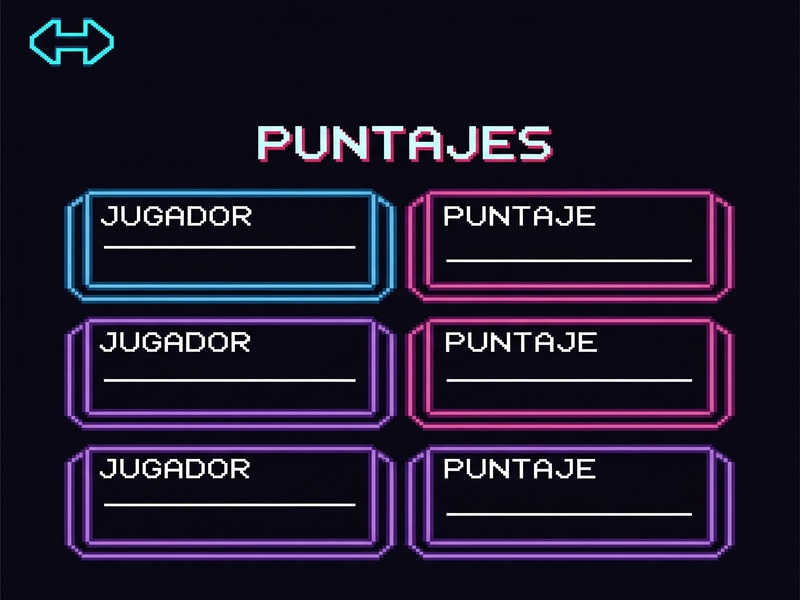
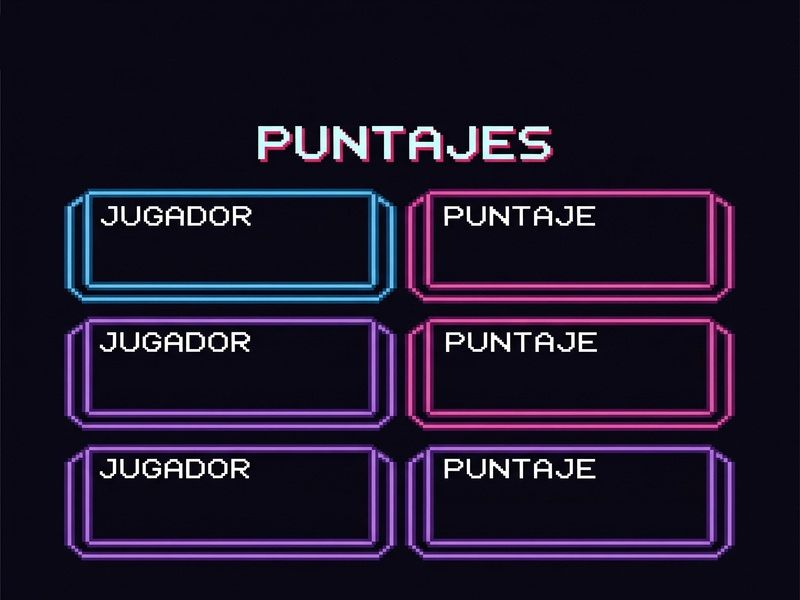
Merge pull request #9 from Runick93/feature/puntaje/almacenamiento-puntaje-archivo
Feature/puntaje/almacenamiento puntaje archivo

Pull request: Feature/puntaje/almacenamiento puntaje archivo
Se finalizo la pantalla puntaje y el guardado de archivos

diff --git a/Funciones_Juego/Funciones_Juegos.py b/Funciones_Juego/Funciones_Juegos.py
@@ -2,10 +2,10 @@ import pygame
 from Funciones.Funciones import *
 
 import pygame.mixer as mixer
+import json
+import os
 
 mixer.init()
-
-
 
 # Pantallas.
 def pantalla_inicio() -> str:
@@ -81,7 +81,7 @@ def pantalla_juego(pantalla, eventos, dict_juego, dict_jugador) -> str:
     fuente_botones = pygame.font.SysFont("consolas", 20)
 
     coordenadas_boton_atras = pygame.Rect(10, 10, 100, 50)
-    pygame.draw.rect(pantalla, 'yellow', coordenadas_boton_atras)
+    pygame.draw.rect(pantalla, (255, 221, 0), coordenadas_boton_atras)
     texto_atras = fuente_botones.render("Atras", True, (0, 0, 0)) 
     rect_texto_atras = texto_atras.get_rect(center=coordenadas_boton_atras.center)
     pantalla.blit(texto_atras, rect_texto_atras)
@@ -147,7 +147,11 @@ def pantalla_juego(pantalla, eventos, dict_juego, dict_jugador) -> str:
                                 sonido_disparo_fallido.play()
                                 dict_jugador["disparos_no_acertados"].append((i,j))
                                 dict_jugador["puntaje"] -= 1
-
+    
+    partida_finalizada = partida_terminada(dict_jugador)
+    if partida_finalizada == True:
+        guardar_puntaje(dict_jugador)
+        retorno = "reiniciar"
     #print(dict_jugador["puntaje"])
     texto_surface = fuente_puntaje.render(f"PUNTAJE: {dict_jugador['puntaje']}", False, (255, 255, 255))
     pantalla.blit(texto_surface, (500, 10))
@@ -155,18 +159,78 @@ def pantalla_juego(pantalla, eventos, dict_juego, dict_jugador) -> str:
 
 
 
-def pantalla_puntaje(pantalla, diccionario_juego:dict, diccionario_jugador:dict):
+def pantalla_puntaje(pantalla, eventos):
     """
     Funcion que permite ver el historico de puntajes en el juego.
     """
+    retorno = "puntaje"
     fondo_imagen = pygame.image.load("Imagenes/pantalla_puntajes.jpg")
     pantalla.blit(fondo_imagen, [0,0])
-    #buscar_barco(diccionario_juego, diccionario_jugador)
+    puntaje_jugador_archivos = obtener_mayor_puntaje()
+
+    fuente_puntaje = pygame.font.SysFont("Consolas", 32)
+
+    fuente_botones = pygame.font.SysFont("consolas", 20)
+
+    coordenadas_boton_atras = pygame.Rect(10, 10, 100, 50)
+    pygame.draw.rect(pantalla, (255, 221, 0), coordenadas_boton_atras)
+    texto_atras = fuente_botones.render("Atras", True, (0, 0, 0)) 
+    rect_texto_atras = texto_atras.get_rect(center=coordenadas_boton_atras.center)
+    pantalla.blit(texto_atras, rect_texto_atras)
+
+    texto_surface_nombre1 = fuente_puntaje.render(f"{puntaje_jugador_archivos[0]["nombre"]}", False, (255, 255, 255))
+    texto_surface_puntaje1 = fuente_puntaje.render(f"{puntaje_jugador_archivos[0]["puntaje"]}", False, (255, 255, 255))
+    pantalla.blit(texto_surface_nombre1, (150, 240))
+    pantalla.blit(texto_surface_puntaje1, (480, 240))
+
+    texto_surface_nombre2 = fuente_puntaje.render(f"{puntaje_jugador_archivos[1]["nombre"]}", False, (255, 255, 255))
+    texto_surface_puntaje2 = fuente_puntaje.render(f"{puntaje_jugador_archivos[1]["puntaje"]}", False, (255, 255, 255))
+    pantalla.blit(texto_surface_nombre2, (150, 365))
+    pantalla.blit(texto_surface_puntaje2, (480, 365))
+
+    texto_surface_nombre3 = fuente_puntaje.render(f"{puntaje_jugador_archivos[2]["nombre"]}", False, (255, 255, 255))
+    texto_surface_puntaje3 = fuente_puntaje.render(f"{puntaje_jugador_archivos[2]["puntaje"]}", False, (255, 255, 255))
+    pantalla.blit(texto_surface_nombre3, (150, 490))
+    pantalla.blit(texto_surface_puntaje3, (480, 490))
+
+    for evento in eventos:
+        if evento.type == pygame.MOUSEBUTTONDOWN:
+            posicion_mouse = pygame.mouse.get_pos()
+            
+            if coordenadas_boton_atras.collidepoint(posicion_mouse):
+                retorno = "inicio"
+
+    return retorno
 
 
+def coordenadas_boton(pantalla, eventos):
+    retorno = ""
+    fuente_botones = pygame.font.SysFont("consolas", 20)
+    coordenadas_boton_atras = pygame.Rect(10, 10, 100, 50)
+    pygame.draw.rect(pantalla, 'yellow', coordenadas_boton_atras)
+    texto_atras = fuente_botones.render("Atras", True, (0, 0, 0)) 
+    rect_texto_atras = texto_atras.get_rect(center=coordenadas_boton_atras.center)
+    pantalla.blit(texto_atras, rect_texto_atras)
+    
+    coordenadas_boton_reiniciar = pygame.Rect(130, 10, 100, 50)
+    pygame.draw.rect(pantalla, 'pink', coordenadas_boton_reiniciar)
+    texto_reiniciar = fuente_botones.render("Reiniciar", True, (0, 0, 0))
+    rect_texto_reiniciar = texto_reiniciar.get_rect(center=coordenadas_boton_reiniciar.center)
+    pantalla.blit(texto_reiniciar, rect_texto_reiniciar)
+
+    for evento in eventos:
+        if evento.type == pygame.MOUSEBUTTONDOWN:
+            posicion_mouse = pygame.mouse.get_pos()
+            
+            if coordenadas_boton_atras.collidepoint(posicion_mouse):
+                retorno = "inicio"
+            
+            if coordenadas_boton_reiniciar.collidepoint(posicion_mouse):
+                retorno = "reiniciar"
+
+    return retorno
 
 # Renderizado de objetos.
-
 def renderizar_tablero(pantalla):
     """
     Funcion donde se renderiza el tablero.
@@ -227,23 +291,6 @@ def renderizar_tablero(pantalla):
             y = offset_y + i * 32
             pantalla.blit(imagen_reescalada, (x, y))
             #pantalla.blit(contorno, (x, y))     
-
-
-
-
-# def buscar_barco(diccionario_juego:dict, diccionario_jugador:dict) -> bool: 
-#     submarinos = diccionario_juego["submarinos"]
-#     destructores = diccionario_juego["destructores"]
-#     cruceros = diccionario_juego["cruceros"]
-#     acorazados = diccionario_juego["acorazados"]   
-
-#     disparos_acertados = diccionario_jugador["disparos_acertados"]
-#     disparos_no_acertados = diccionario_jugador["disparos_no_acertados"]
-
-
-
-#     print("en proceso")
-
 
 def ingresar_nombre_usuario(pantalla, eventos, dict_jugador: dict, nombre_usuario) -> None:
     """
@@ -306,6 +353,64 @@ def verificar_destruccion(dict_juego, dict_jugador):
                 dict_jugador["puntaje"] += 10 * len(nave)
                 print("nave destruida", tipo, nave)
                 naves_a_eliminar.append(nave)
+                dict_jugador["naves_destruidas"] += 1
 
         for nave in naves_a_eliminar:
             naves.remove(nave)
+        
+def partida_terminada(dict_jugador):
+    naves_destruidas = dict_jugador["naves_destruidas"]
+    
+    retorno = False
+
+    if naves_destruidas == 10:
+        retorno = True
+
+    return retorno
+
+def guardar_puntaje(dict_jugador):
+    nombre_usuario = dict_jugador["nombre_usuario"]
+    puntaje = dict_jugador["puntaje"]
+    
+    ruta = "Jugadores/puntajes_jugadores.json"
+
+    if os.path.exists(ruta):
+        with open(ruta, "r") as f:
+            puntajes = json.load(f)
+    else:
+        puntajes = []
+
+    puntajes.append({"nombre": nombre_usuario, "puntaje": puntaje})
+
+    with open(ruta, "w") as f:
+        json.dump(puntajes, f, indent=4)
+
+def ordenamiento(datos):
+    for i in range(0, len(datos)-1, 1):
+        for j in range(i + 1, len(datos), 1):
+            if datos[i]["puntaje"] < datos[j]["puntaje"]:
+                puntaje_auxiliar = datos[i]["puntaje"]
+                datos[i]["puntaje"] = datos[j]["puntaje"]
+                datos[j]["puntaje"] = puntaje_auxiliar
+
+                nombre_auxiliar = datos[i]["nombre"]
+                datos[i]["nombre"] = datos[j]["nombre"]
+                datos[j]["nombre"] = nombre_auxiliar
+
+def obtener_mayor_puntaje():
+    ruta = "Jugadores/puntajes_jugadores.json"
+    mayores_puntajes = []
+
+    with open(ruta, "r") as archivo:
+        puntaje_jugadores_archivo = json.load(archivo)
+        #ordenamos los datos de mayor puntaje
+        ordenamiento(puntaje_jugadores_archivo)
+        rango = len(puntaje_jugadores_archivo)
+
+        if rango > 3:
+            rango = 3
+            
+        for i in range(rango):
+            mayores_puntajes.append(puntaje_jugadores_archivo[i])
+
+    return mayores_puntajes

diff --git a/Main.py b/Main.py
@@ -49,7 +49,7 @@ while True:
         else:
             menu_inicio = pantalla_juego(pantalla, eventos, dict_juego, dict_jugador)
     elif menu_inicio == "puntaje":
-        menu_inicio = pantalla_puntaje(pantalla, dict_juego, dict_jugador)
+        menu_inicio = pantalla_puntaje(pantalla, eventos)
     elif menu_inicio == "salir":
         pygame.quit()
         quit()

diff --git a/Funciones/Funciones.py b/Funciones/Funciones.py
@@ -13,6 +13,7 @@ def inicializar_jugador() -> dict:
         "nombre_insertado": False,
         "disparos_acertados": [],
         "disparos_no_acertados": [],
+        "naves_destruidas": 0,
         "puntaje": 0000,
         "selection": []
     }